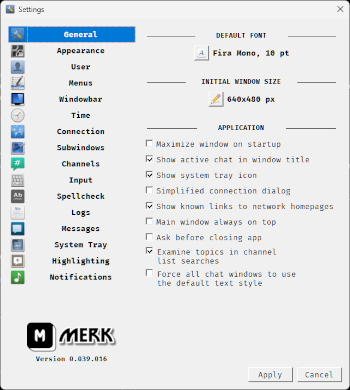
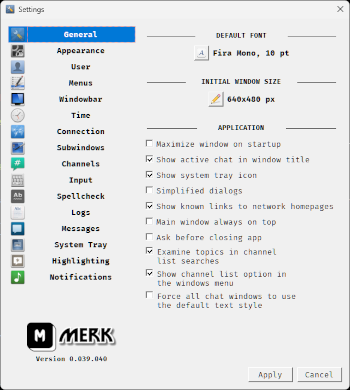
Updated README
New settings dialog screenshot, and a new screenshot of the settings menu

Changed region(s): [[0.4571, 0.6769, 0.8571, 0.8], [0.6, 0.4615, 0.8286, 0.5231], [0.2857, 0.8923, 0.3143, 0.9231]]

diff --git a/README.md b/README.md
@@ -165,6 +165,11 @@ There are three libraries that comes bundled with **MERK**:
   </p>
 
   <p align="center">
+ <center><a href="./graphics/menu.png"><img src="./graphics/menu.png"></a></center></br>
+  <center><i><small>The settings menu also includes many commonly used settings that can be toggled directly, without opening the settings dialog. All settings in this menu are applied instantly.</small></i></center>
+  </p>
+
+  <p align="center">
  <center><a href="./graphics/channels.png"><img src="./graphics/channels_small.png"></a></center></br>
   <center><i><small>The channel list dialog, listing all visible channels on a server. The list can be searched and filtered by user count. This screenshot shows the channel list for the <a href="https://libera.chat/">Libera</a> network.</small></i></center>
   </p>
